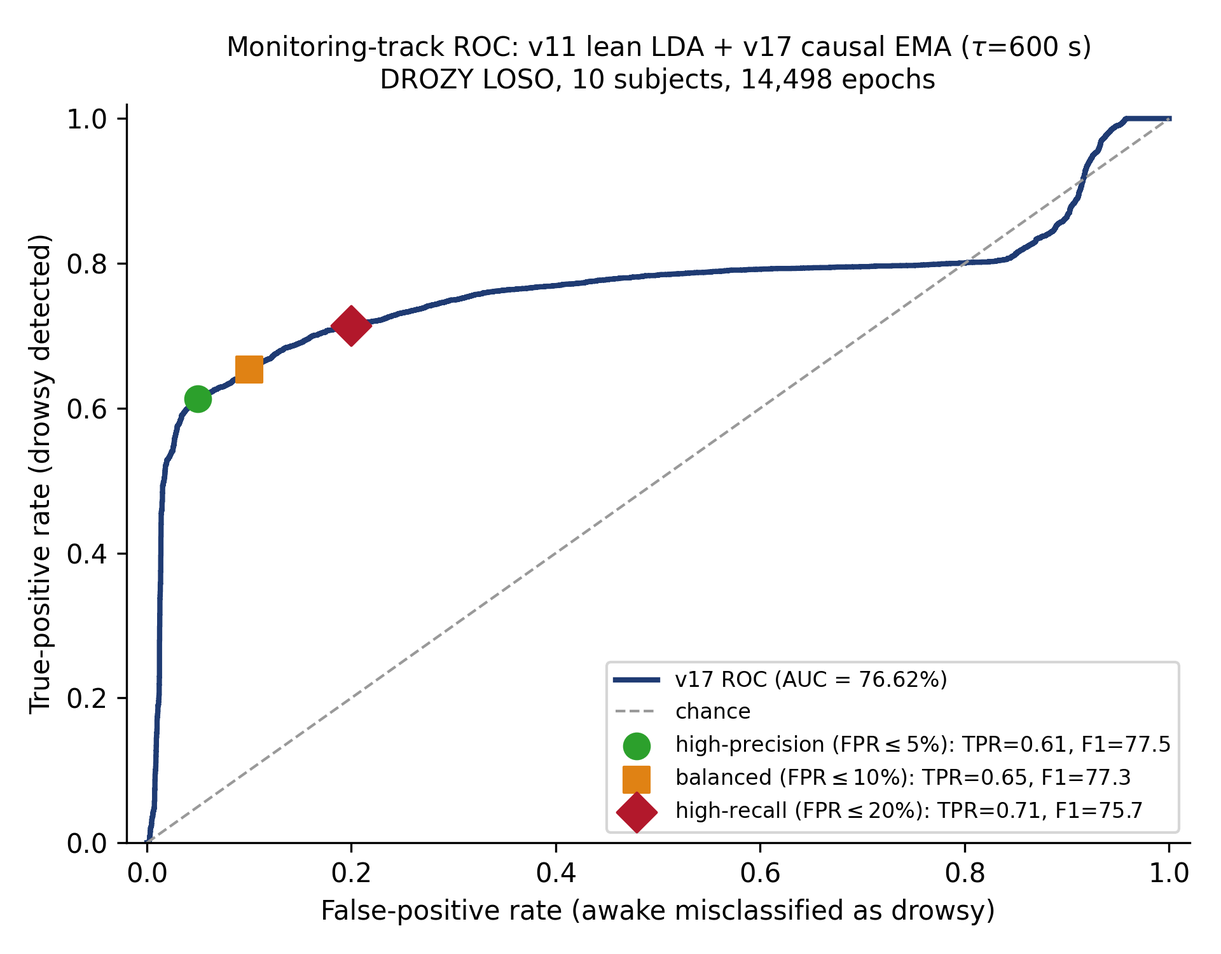
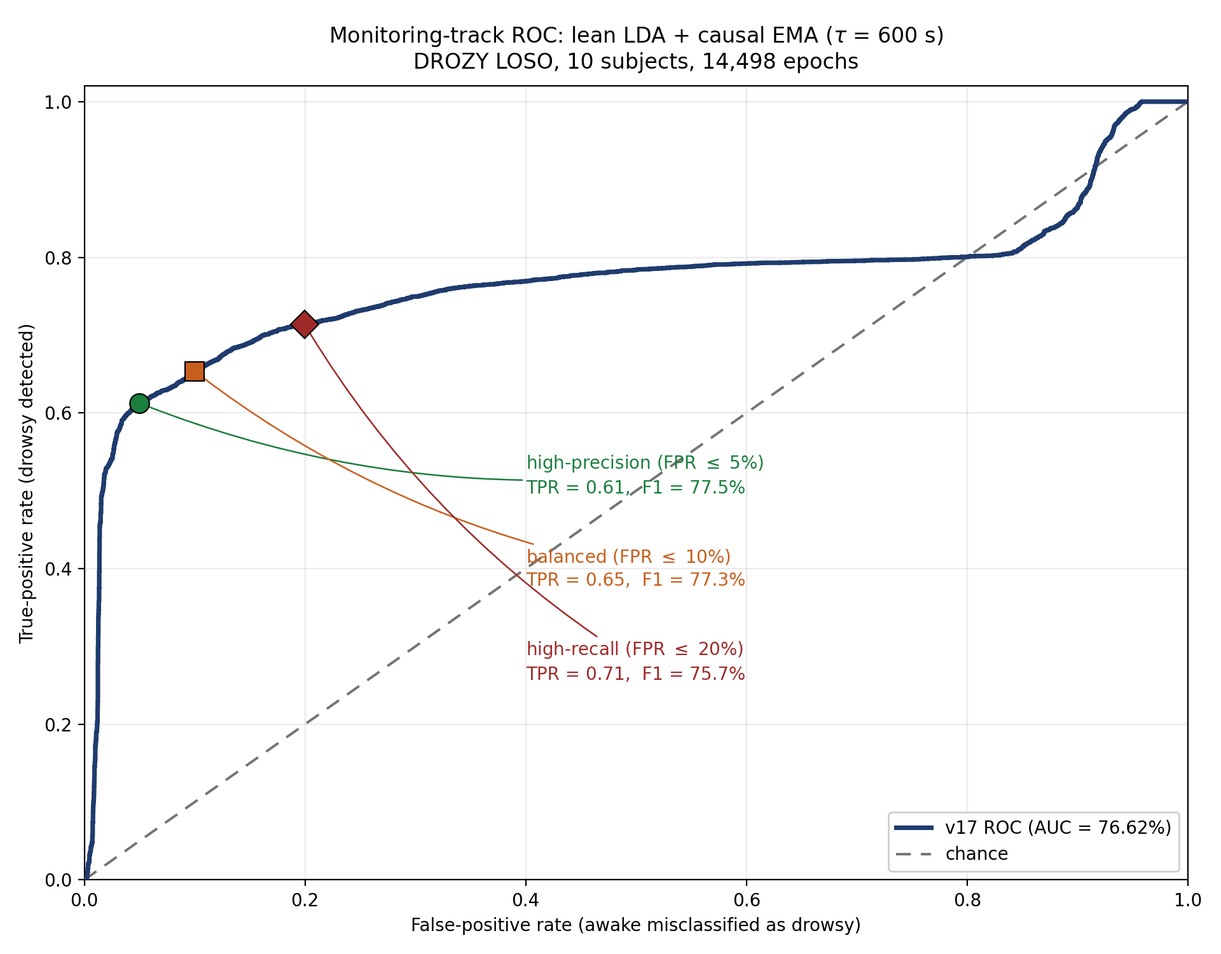
Chemori review: items 2, 6, 8, 9, 11, 14, 15
Revision markup infrastructure: \revmode switch (clean|review|track) with
\add{}, \del{}, \chg{} driving three builds from one source.

Item 2  — A. Chemori added as fourth author and corresponding author
          (LIRMM/CNRS, Senior Member IEEE). Removed A. R. Pal's
          \IEEEmembership{Member,~IEEE}: he is not an IEEE member, so the
          grade had been misstated in every draft since April. No grade is
          claimed for G. Murali Mohan either. Cascaded to cover_letter.md
          (header, corresponding author, signature), declarations.md (CRediT,
          funding), SUBMISSION_MANIFEST.md, submission/README.md. ORCID,
          CRediT and funding for Chemori left as explicit [TODO].
Item 6  — lead-in paragraph before the two tracks in Sec III.E.
Item 8  — Fig 2 legend moved out of the data: it sat at "center left" and was
          struck through by the 0.5 threshold line and the EMA curve. Now a
          two-column legend in reserved headroom (ylim -> 1.34).
Item 9  — Fig 3 title no longer clipped, tau rendered as a glyph, ROC line
          weight raised and chance diagonal differentiated, operating-point
          labels moved off the legend onto the curve with leader lines.
          Also fixes a repro desync: the shipped PNG was 1920x1500 with a
          corrected title while v17_roc.py still emitted 1100x1000 with the
          broken one, so reproduce.py silently undid the fix. Script and
          artifact now agree.
[…]

diff --git a/submission/main.tex b/submission/main.tex
@@ -41,9 +41,51 @@
 \usepackage{url}
 \usepackage{array}
 \usepackage{soul}                       % \hl{} for highlighting reviewer-revised text
+\usepackage[normalem]{ulem}             % \sout{} for struck-through deletions
 \usepackage[hidelinks]{hyperref}
 \usepackage{siunitx}
 \graphicspath{{figures/}}
+
+% =================================================================
+% Revision markup — A. Chemori review, received 2026-07-25.
+%
+%   clean  : submission copy   — final text only, deletions vanish
+%   review : Chemori's copy    — additions highlighted yellow
+%   track  : audit copy        — additions yellow, deletions red + struck
+%
+% Change ONE line below. Do not maintain separate copies of this file:
+% revision/build_variants.py generates the three Overleaf zips from it.
+% =================================================================
+\def\revmode{track}
+
+\definecolor{addyellow}{RGB}{255,245,150}
+\definecolor{delred}{RGB}{190,30,30}
+
+\makeatletter
+\def\@revclean{clean}
+\def\@revtrack{track}
+\ifx\revmode\@revclean
+  \newcommand{\add}[1]{#1}                                   % additions -> plain text
+  \newcommand{\del}[1]{}                                     % deletions -> removed entirely
+\else
+  \sethlcolor{addyellow}
+  \newcommand{\add}[1]{\hl{#1}}
+  \ifx\revmode\@revtrack
+    \newcommand{\del}[1]{{\color{delred}\sout{#1}}}
+  \else
+    \newcommand{\del}[1]{}                                   % review mode: additions only
+  \fi
+\fi
+\makeatother
+
+% Replaced text: \chg{old}{new}
+\newcommand{\chg}[2]{\del{#1}\add{#2}}
+
+% NOTE on usage: soul's \hl cannot re-typeset inline math or \cite, so inside
+% \add{} / \del{} / \chg{} any such content must be wrapped in \mbox{}:
+%     \add{the smoothed pipeline reaches \mbox{\(F_1 = 76.79\,\%\)}}
+%     \add{as reported previously~\mbox{\cite{balam2024review}}}
+% \hl also cannot span a paragraph break — mark each paragraph separately.
 
 \begin{document}
 
@@ -52,10 +94,14 @@
 \author{
     Muhammed Raslan Thalassery,
     Sulaiman Shiyas Ali,
-    Abhishek Rudra Pal,~\IEEEmembership{Member,~IEEE},
+    \chg{Abhishek Rudra Pal,~\IEEEmembership{Member,~IEEE},}{Abhishek Rudra Pal,}
+    \add{Ahmed Chemori,~\IEEEmembership{Senior Member,~IEEE},}
     and G.~Murali Mohan
 \thanks{M.~R.~Thalassery and S.~S.~Ali are with the School of Mechanical Engineering, Vellore Institute of Technology (VIT) Chennai, Vandalur--Kelambakkam Road, Chennai 600127, Tamil Nadu, India (e-mail: muhammedraslan.t2022@vitstudent.ac.in).}
-\thanks{A.~R.~Pal and G.~Murali Mohan are with the School of Mechanical Engineering, Vellore Institute of Technology (VIT) Chennai, Chennai 600127, Tamil Nadu, India (e-mail: abhishek.rudrapal@vit.ac.in; muralimohan.g@vit.ac.in). Corresponding author: A.~R.~Pal.}
+\thanks{\chg{A.~R.~Pal and G.~Murali Mohan are with the School of Mechanical Engineering, Vellore Institute of Technology (VIT) Chennai, Chennai 600127, Tamil Nadu, India (e-mail: abhishek.rudrapal@vit.ac.in; muralimohan.g@vit.ac.in). Corresponding author: A.~R.~Pal.}{A.~R.~Pal and G.~Murali Mohan are with the School of Mechanical Engineering, Vellore Institute of Technology (VIT) Chennai, Chennai 600127, Tamil Nadu, India (e-mail: abhishek.rudrapal@vit.ac.in; muralimohan.g@vit.ac.in).}}
+\thanks{\add{A.~Chemori is with LIRMM, Universit\'e de Montpellier, CNRS, UMR 5506, 161 rue Ada, 34095 Montpellier Cedex 5, France (e-mail: Ahmed.Chemori@lirmm.fr).}}
+\thanks{\add{Corresponding author: A.~Chemori.}}
+\thanks{\add{ORCID: M.~R.~Thalassery, [TODO]; S.~S.~Ali, [TODO]; A.~R.~Pal, [TODO]; A.~Chemori, [TODO]; G.~Murali Mohan, [TODO].}}
 \thanks{Manuscript received Month DD, 2026.}
 }
 
@@ -69,8 +115,42 @@ Driver drowsiness causes a substantial fraction of road fatalities worldwide, an
 \end{abstract}
 
 \begin{IEEEkeywords}
-Electroencephalography, drowsiness detection, driver monitoring, occipital EEG, advance prediction, subject-independent classification, IEEE Sensors.
+Electroencephalography, drowsiness detection, driver monitoring, occipital EEG, advance prediction, subject-independent classification, \chg{IEEE Sensors.}{vigilance, real-time systems.}
 \end{IEEEkeywords}
+
+% -----------------------------------------------------------------
+% Item 15 (A. Chemori): list of acronyms at the beginning of the paper.
+% The whole block is new; it is marked once at the heading rather than
+% per line, because soul's \hl is fragile inside \item[] labels.
+% -----------------------------------------------------------------
+\section*{\add{Nomenclature}}
+\begin{IEEEdescription}[\IEEEsetlabelwidth{PERCLOS}]
+\item[AUC]     Area under the receiver-operating-characteristic curve.
+\item[CNN]     Convolutional neural network.
+\item[DMS]     Driver-monitoring system.
+\item[DWT]     Discrete wavelet transform.
+\item[ECG]     Electrocardiography.
+\item[EEG]     Electroencephalography.
+\item[EMA]     Exponential moving average.
+\item[EOG]     Electro-oculography.
+\item[FIR]     Finite impulse response.
+\item[FOOOF]   ``Fitting oscillations and one-over-\emph{f}'' spectral parameterisation.
+\item[FPR]     False-positive rate.
+\item[HMM]     Hidden Markov model.
+\item[ImCoh]   Imaginary part of coherency.
+\item[IQR]     Interquartile range.
+\item[LDA]     Linear discriminant analysis.
+\item[LOSO]    Leave-one-subject-out cross-validation.
+\item[LSTM]    Long short-term memory network.
+\item[PAF]     Peak alpha frequency.
+\item[PERCLOS] Percentage of eyelid closure over the pupil over time.
+\item[PLV]     Phase-locking value.
+\item[PSD]     Power spectral density.
+\item[PVT]     Psychomotor vigilance task.
+\item[ROC]     Receiver operating characteristic.
+\item[TPR]     True-positive rate.
+\item[wPLI]    Weighted phase-lag index.
+\end{IEEEdescription}
 
 % =================================================================
 \section{Introduction}
@@ -130,18 +210,25 @@ The lean 10-feature set per epoch is:
 The classifier is shrinkage linear discriminant analysis (LDA)~\cite{ledoit2004shrinkage} with the \texttt{lsqr} solver and Ledoit--Wolf automatic shrinkage. Per-subject z-score standardisation is computed from each subject's session-1 (awake) epochs only --- equivalent to a 60-second pre-drive alert calibration --- and applied to both train and test epochs of the same subject without leaking class information.
 
 The temporal smoother converts per-epoch posteriors \(p_t\) into a smoothed estimate \(\tilde{p}_t\) by a strictly causal exponential moving average:
+% Item 14 (A. Chemori): the smoothing coefficient was previously \alpha, which
+% collided with the 8-13 Hz alpha band. Renamed to \lambda throughout. The
+% equation itself carries no \add/\del markup because soul's \hl cannot operate
+% inside math mode; the change is documented in the response letter and in the
+% highlighted sentence immediately below.
 \begin{equation}
-    \tilde{p}_t = \alpha \, p_t + (1-\alpha)\,\tilde{p}_{t-1}, \quad \alpha = 1 - e^{-\Delta t/\tau},
+    \tilde{p}_t = \lambda \, p_t + (1-\lambda)\,\tilde{p}_{t-1}, \quad \lambda = 1 - e^{-\Delta t/\tau},
     \label{eq:ema}
 \end{equation}
-with \(\Delta t = 10\)~s and \(\tau = 600\)~s. The recursion is initialised at \(\tilde{p}_0 = p_0\) and is reset only at subject boundaries (\emph{never} at session boundaries), to prevent any reset rule from leaking the binary DROZY label. We refer to this as the \emph{continuous} regime in Section~\ref{sec:smoother}.
+\add{Here \mbox{\(p_t \in [0,1]\)} is the classifier's posterior probability that epoch \mbox{\(t\)} is drowsy, \mbox{\(\tilde{p}_t\)} is its smoothed counterpart, \mbox{\(\lambda \in (0,1]\)} is the smoothing coefficient, \mbox{\(\Delta t\)} is the epoch duration, and \mbox{\(\tau\)} is the smoothing time constant. The coefficient is written \mbox{\(\lambda\)} rather than the conventional \mbox{\(\alpha\)} to avoid collision with the \mbox{\(\alpha\)} frequency band (8--13~Hz) used elsewhere in this paper.} In the configuration reported here \(\Delta t = 10\)~s and \(\tau = 600\)~s. The recursion is initialised at \(\tilde{p}_0 = p_0\) and is reset only at subject boundaries (\emph{never} at session boundaries), to prevent any reset rule from leaking the binary DROZY label. We refer to this as the \emph{continuous} regime in Section~\ref{sec:smoother}.
 
 \subsection{Evaluation Protocols}
+\add{The pipeline is assessed on two tasks that share a classifier but differ in their labels, time constants and success criteria. The \emph{monitoring} track asks how accurately the current vigilance state is recognised, is evaluated against binary session labels on DROZY, and is scored by weighted F1. The \emph{pro-active} track asks how far in advance a drowsiness episode is flagged, is evaluated against continuous PERCLOS annotations on SEED-VIG, and is scored by lead time under a controlled false-alert budget. The two protocols are defined in turn below, followed by the statistical procedures common to both.}
+
 \textbf{Monitoring track.} Strict leave-one-subject-out (LOSO) on DROZY (10 folds), with weighted F1 as the headline metric. Each fold trains on 9 subjects' 10-feature matrix and tests on the held-out subject; predictions are concatenated across folds. Cross-dataset transfer trains on full DROZY and tests on full SEED-VIG without any fine-tuning. Pooled LOSO concatenates DROZY and SEED-VIG and runs LOSO across the 31-subject union.
 
-\textbf{Pro-active track.} On each held-out SEED-VIG subject the per-epoch posterior is causal-EMA-smoothed (\(\tau = 30\)~s), and a per-driver alarm threshold is set as the 99\textsuperscript{th} percentile of that subject's smoothed posterior over the first 5 minutes of the session. The alarm fires on the first sustained crossing (10~s dwell). The behavioural reference onset is the first time the smoothed PERCLOS exceeds a chosen threshold for 60~s. Lead time is \emph{behavioural onset $-$ EEG onset} (positive = EEG fires first). Sessions where EEG fires but PERCLOS never crosses are reported as censored positive cases (\emph{eeg-only}); sessions where the reverse occurs are \emph{behav-only}.
+\textbf{Pro-active track.} On each held-out SEED-VIG subject the per-epoch posterior is causal-EMA-smoothed (\(\tau = 30\)~s), and a per-driver alarm threshold \add{\mbox{\(\eta\)}} is set as the 99\textsuperscript{th} percentile of that subject's smoothed posterior over the first 5 minutes of the session. The alarm fires on the first sustained crossing (10~s dwell). The behavioural reference onset is the first time the smoothed PERCLOS exceeds a chosen threshold for 60~s. Lead time is \emph{behavioural onset $-$ EEG onset} (positive = EEG fires first). Sessions where EEG fires but PERCLOS never crosses are reported as censored positive cases (\emph{eeg-only}); sessions where the reverse occurs are \emph{behav-only}.
 
-\textbf{Statistical tests.} Paired Wilcoxon signed-rank with one-sided alternative is used for between-pipeline comparisons at the subject level. Paired Cohen's \(d\) is reported as an effect-size descriptor.
+\textbf{Statistical tests.} Paired Wilcoxon signed-rank with one-sided alternative is used for between-pipeline comparisons at the subject level, \add{yielding the significance level \mbox{\(p\)} with \mbox{\(n = 10\)} paired subject-level observations on DROZY.} Paired Cohen's \(d\) is reported as an effect-size descriptor. \add{Two further statistics appear in the results: Cohen's \mbox{\(\kappa\)}, the chance-corrected agreement between predicted and true labels, and the Mann--Whitney \mbox{\(U\)} statistic used for the unpaired distributional contrasts of Section~\ref{sec:coh-stats}.}
 
 % =================================================================
 \section{Results}
@@ -369,7 +456,7 @@ Two engineering tracks that might reasonably be expected to improve the pipeline
 Table~\ref{tab:proactive} reports the FPR-budget Pareto front on SEED-VIG. The recommended deployment operating point is \emph{per-subject 99\textsuperscript{th} percentile of the first 5 min of smoothed \(p(\mathrm{drowsy})\), 10-s dwell, EMA \(\tau = 30\)~s}, which delivers \(\mathit{proactive\_rate} = 85.7\)~\% with median lead \(+31.67\) min against PERCLOS \(>0.70\). The epoch-level FPR (against PERCLOS \(<0.35\) epochs) is 27.6~\%; the per-session false-alert rate (sessions where EEG fires but PERCLOS never confirms) is 9.5~\% (2 of 21).
 
 \begin{table}[t]
-\caption{Pro-active operating envelope on SEED-VIG (21 subjects). Behavioural onset is PERCLOS \(>0.70\) sustained 60~s.}
+\caption{Pro-active operating envelope on SEED-VIG (21 subjects). Behavioural onset is PERCLOS \(>0.70\) sustained 60~s. \add{\(\eta\) denotes the alarm threshold applied to the smoothed posterior; it is written \(\eta\) rather than \(\theta\) to avoid collision with the \(\theta\) frequency band (4--8~Hz).}}
 \label{tab:proactive}
 \centering
 \small
@@ -378,8 +465,8 @@ Table~\ref{tab:proactive} reports the FPR-budget Pareto front on SEED-VIG. The r
 \toprule
 FPR budget & Threshold mode & Proactive rate & Median lead (min) & Sens@drowsy \\
 \midrule
-\(\leq 5\)~\%  & global \(\theta=0.50\)              & 33.3~\% & \(+0.00\)  & 0.30 \\
-\(\leq 10\)~\% & global \(\theta=0.40\)              & 47.6~\% & \(+0.83\)  & 0.38 \\
+\(\leq 5\)~\%  & global \(\eta=0.50\)                & 33.3~\% & \(+0.00\)  & 0.30 \\
+\(\leq 10\)~\% & global \(\eta=0.40\)                & 47.6~\% & \(+0.83\)  & 0.38 \\
 \(\leq 30\)~\% & per-subj 99\(\%\)pct of 5-min       & \(\mathbf{85.7}\)~\% & \(\mathbf{+31.67}\) & 0.69 \\
 \(\leq 50\)~\% & per-subj 99\(\%\)pct of 2-min       & 90.5~\% & \(+33.50\) & 0.79 \\
 \bottomrule
@@ -511,10 +598,10 @@ The authors thank the contributors of the DROZY~\cite{drozy2016} and SEED-VIG~\c
 All analysis scripts, pinned dependencies, and a single-entry reproducer (\texttt{reproduce.py}) are released at \url{https://github.com/MuhammedRaslan/Pro-Active-Driver-Monitoring-System-Using-EEG} under the commit tagged \texttt{paper-submission-v1}. Per-subject feature caches (DROZY: 14\,498 epochs \(\times\) 50 features; SEED-VIG: 9\,155 epochs) regenerate automatically from the raw EDF/MAT files via the reproducer. Wall-clock time is approximately 5 minutes on a laptop CPU excluding the EEGNet baseline (\(\sim\)28 minutes).
 
 \section*{Author Contributions}
-M.~R.~Thalassery designed the pipeline, implemented the experiments, conducted the ablations and statistical analyses, and drafted the manuscript. S.~S.~Ali contributed to the feature-extraction implementation and the live demonstrator. A.~R.~Pal supervised the project, provided guidance on signal-processing methodology, and reviewed and approved the final manuscript. G.~Murali Mohan provided project supervision and reviewed the final manuscript.
+M.~R.~Thalassery designed the pipeline, implemented the experiments, conducted the ablations and statistical analyses, and drafted the manuscript. S.~S.~Ali contributed to the feature-extraction implementation and the live demonstrator. A.~R.~Pal supervised the project, provided guidance on signal-processing methodology, and reviewed and approved the final manuscript. \add{A.~Chemori [TODO: CRediT contribution to be supplied by A.~Chemori].} G.~Murali Mohan provided project supervision and reviewed the final manuscript.
 
 \section*{Conflicts of Interest}
-The authors declare no conflicts of interest. No external funding was received for this work.
+The authors declare no conflicts of interest. \chg{No external funding was received for this work.}{[TODO: confirm with A.~Chemori whether CNRS/LIRMM requires a funding or institutional-support acknowledgement; the statement ``no external funding was received for this work'' was accurate while the work was VIT-internal.]}
 
 \bibliographystyle{IEEEtran}
 \bibliography{references}

diff --git a/v17_roc.py b/v17_roc.py
@@ -158,24 +158,54 @@ def main():
               f"TPR={m['tpr']:.3f}  FPR={m['fpr']:.3f}  kappa={m['kappa']:+.3f}")
 
     # Figure: ROC with the three chosen operating points highlighted.
-    fig, ax = plt.subplots(figsize=(5.5, 5.0))
-    ax.plot(fpr, tpr, "-", lw=2, color="#1f3b6e", label=f"v17 ROC (AUC = {auc:.2f}%)")
-    ax.plot([0, 1], [0, 1], "--", color="0.6", lw=1, label="chance")
+    #
+    # Item 9 (A. Chemori): "rework the curve line style of Fig. 3 for better
+    # visibility and avoid overlapping in the text." Three changes:
+    #   (a) the title previously overflowed the axes and was clipped mid-word
+    #       in the compiled PDF ("...causal EMA (tau=6C"). It is now shorter,
+    #       uses a real tau glyph, and is wrapped explicitly.
+    #   (b) the ROC and the chance diagonal were near-indistinguishable at
+    #       print size. The ROC is now heavier and the diagonal darker with a
+    #       distinct dash pattern.
+    #   (c) the operating points carried long labels inside the legend box.
+    #       They are now annotated directly on the curve, leaving a two-line
+    #       legend that cannot crowd the plotted data.
+    #
+    # NOTE: figsize/dpi below reproduce the 1920x1500 px figure shipped in
+    # submission/figures/. Do not change these without regenerating the PNG —
+    # a previous hand-edit of the image left this script emitting a different
+    # size and a broken title, so reproduce.py silently undid the fix.
+    fig, ax = plt.subplots(figsize=(9.6, 7.5))
+    ax.plot(fpr, tpr, "-", lw=2.6, color="#1f3b6e", zorder=3,
+            label=f"v17 ROC (AUC = {auc:.2f}%)")
+    ax.plot([0, 1], [0, 1], color="0.45", lw=1.4, linestyle=(0, (6, 4)),
+            zorder=2, label="chance")
+    # The three operating points cluster in the upper-left, so their labels are
+    # parked in the empty mid-right of the axes and joined by leader lines.
+    # Fixed data coordinates (not offsets) keep them from colliding with each
+    # other, which offset placement did not.
     labels = {
-        "high_precision_FPR5":  ("o", "#1a7f3d", "high-precision (FPR<=5%)"),
-        "balanced_FPR10":       ("s", "#c75f1e", "balanced (FPR<=10%)"),
-        "high_recall_FPR20":    ("D", "#a02a2a", "high-recall (FPR<=20%)"),
+        "high_precision_FPR5":  ("o", "#1a7f3d", "high-precision (FPR $\\leq$ 5%)",  (0.40, 0.52)),
+        "balanced_FPR10":       ("s", "#c75f1e", "balanced (FPR $\\leq$ 10%)",       (0.40, 0.40)),
+        "high_recall_FPR20":    ("D", "#a02a2a", "high-recall (FPR $\\leq$ 20%)",    (0.40, 0.28)),
     }
-    for name, (mk, col, lbl) in labels.items():
+    for name, (mk, col, lbl, xytext) in labels.items():
         m = ops[name]
-        ax.plot(m["fpr"], m["tpr"], mk, color=col, ms=9, mec="k", mew=0.6,
-                label=f"{lbl}: TPR={m['tpr']:.2f}, F1={m['f1_score']:.1f}")
+        ax.plot(m["fpr"], m["tpr"], mk, color=col, ms=11, mec="k", mew=0.8, zorder=4)
+        ax.annotate(f"{lbl}\nTPR = {m['tpr']:.2f},  F1 = {m['f1_score']:.1f}%",
+                    xy=(m["fpr"], m["tpr"]), xytext=xytext,
+                    textcoords="data", fontsize=10, color=col,
+                    ha="left", va="center", linespacing=1.4,
+                    arrowprops=dict(arrowstyle="-", color=col, lw=0.9,
+                                    shrinkA=0, shrinkB=6,
+                                    connectionstyle="arc3,rad=-0.12"))
     ax.set_xlabel("False-positive rate (awake misclassified as drowsy)")
     ax.set_ylabel("True-positive rate (drowsy detected)")
-    ax.set_title("Monitoring-track ROC — v11 lean LDA + v17 causal EMA (tau=600 s)\nDROZY LOSO, 10 subjects, 14498 epochs")
+    ax.set_title("Monitoring-track ROC: lean LDA + causal EMA ($\\tau$ = 600 s)\n"
+                 "DROZY LOSO, 10 subjects, 14,498 epochs", fontsize=12, pad=10)
     ax.set_xlim(0, 1); ax.set_ylim(0, 1.02)
     ax.grid(alpha=0.25)
-    ax.legend(loc="lower right", fontsize=8.5)
+    ax.legend(loc="lower right", fontsize=10, framealpha=0.95, edgecolor="0.8")
     fig.tight_layout()
     fig.savefig(FIG_PATH, dpi=200)
     plt.close(fig)

diff --git a/reviewer_revision_analysis.py b/reviewer_revision_analysis.py
@@ -257,16 +257,22 @@ rep = "05M"
 m = np.where(subj == rep)[0]
 t_min = np.arange(len(m)) * EPOCH_SEC / 60.0
 boundary = int(np.argmax(y[m] == 1))  # first drowsy epoch index
-fig, ax = plt.subplots(figsize=(7.2, 3.8))
+fig, ax = plt.subplots(figsize=(7.2, 4.2))
 ax.plot(t_min, p_raw[m], color="#bdbdbd", lw=0.8, label="raw posterior $p_t$")
 ax.plot(t_min, p_sm[m], color="#c1272d", lw=1.8, label=r"EMA-smoothed $\tilde p_t$ ($\tau=600$ s)")
-ax.axhline(0.5, color="black", ls=":", lw=0.8)
+ax.axhline(0.5, color="black", ls=":", lw=0.8, label="decision threshold (0.5)")
 ax.axvline(t_min[boundary], color="#1f78b4", ls="--", lw=1.0, label="awake$\\to$drowsy session boundary")
 ax.set_xlabel("Time within subject stream (min)")
 ax.set_ylabel("$p(\\mathrm{drowsy})$")
-ax.set_ylim(-0.02, 1.02)
-ax.set_title(f"Raw vs causal-EMA posterior (subject {rep})")
-ax.legend(loc="center left", fontsize=8, frameon=False)
+# Item 8 (A. Chemori): the legend previously sat at "center left", directly on
+# top of the traces — the 0.5 threshold line and the EMA curve struck through
+# the label text. Reserve a clear band above the data and lay the legend out
+# horizontally in that band so it cannot overlap any plotted element.
+ax.set_ylim(-0.02, 1.34)
+ax.legend(loc="upper left", ncol=2, fontsize=8, frameon=True,
+          framealpha=0.95, edgecolor="0.8", borderpad=0.5,
+          handlelength=1.8, columnspacing=1.4)
+ax.set_title(f"Raw vs causal-EMA posterior (subject {rep})", pad=8)
 ax.spines[["top", "right"]].set_visible(False)
 fig.tight_layout()
 f3path = os.path.join(FIGDIR, "fig14_ema_raw_vs_smoothed.png")

diff --git a/submission/cover_letter.md b/submission/cover_letter.md
@@ -1,9 +1,12 @@
 # Cover letter — IEEE Sensors Journal submission
 
 **Manuscript:** Pro-Active Driver Drowsiness Monitoring Using Two-Channel Occipital EEG
-**Authors:** Muhammed Raslan Thalassery, Sulaiman Shiyas Ali, Abhishek Rudra Pal, G. Murali Mohan
-**Affiliation:** School of Mechanical Engineering (SMEC), Vellore Institute of Technology (VIT) Chennai, Vandalur–Kelambakkam Road, Chennai 600127, Tamil Nadu, India
-**Corresponding author:** Dr. Abhishek Rudra Pal (abhishek.rudrapal@vit.ac.in)
+**Authors:** Muhammed Raslan Thalassery, Sulaiman Shiyas Ali, Abhishek Rudra Pal, Ahmed Chemori, G. Murali Mohan
+**Affiliations:**
+- School of Mechanical Engineering (SMEC), Vellore Institute of Technology (VIT) Chennai, Vandalur–Kelambakkam Road, Chennai 600127, Tamil Nadu, India
+- LIRMM, Université de Montpellier, CNRS, UMR 5506, 161 rue Ada, 34095 Montpellier Cedex 5, France
+
+**Corresponding author:** Dr. Ahmed Chemori (Ahmed.Chemori@lirmm.fr)
 **Date:** [TODO insert at submission]
 
 ---
@@ -22,7 +25,7 @@ We submit for your consideration the enclosed manuscript titled **"Pro-Active Dr
 
 - This manuscript has not been published or submitted elsewhere; an earlier version of this work appears solely as a university capstone thesis at VIT Chennai, which is not considered prior publication under IEEE policy.
 - All authors have approved the submission and agreed to the listed authorship order.
-- The authors declare no conflicts of interest. No external funding was received for this work.
+- The authors declare no conflicts of interest. [TODO: confirm the funding statement with Dr. Chemori — "no external funding was received for this work" was accurate while the work was VIT-internal, but a CNRS/LIRMM co-author may require an institutional or grant acknowledgement.]
 - All analysis scripts, pinned dependencies, and a single-entry reproducer are released at `https://github.com/MuhammedRaslan/Pro-Active-Driver-Monitoring-System-Using-EEG` (Zenodo DOI to be added after submission acceptance).
 - We have respected the data-use agreements for DROZY and SEED-VIG; no raw data is redistributed in the submission package.
 
@@ -30,14 +33,15 @@ We have suggested reviewers and excluded conflicts in the submission portal acco
 
 Sincerely,
 
-Dr. Abhishek Rudra Pal
-School of Mechanical Engineering
-Vellore Institute of Technology (VIT) Chennai
-Chennai 600127, Tamil Nadu, India
+Dr. Ahmed Chemori, Senior Member, IEEE
+CNRS Researcher HDR
+LIRMM, Université de Montpellier, CNRS, UMR 5506
+161 rue Ada, 34095 Montpellier Cedex 5, France
 ORCID: [TODO]
-Email: abhishek.rudrapal@vit.ac.in
+Email: Ahmed.Chemori@lirmm.fr
 
 On behalf of co-authors:
 Muhammed Raslan Thalassery (ORCID: [TODO])
 Sulaiman Shiyas Ali (ORCID: [TODO])
+Abhishek Rudra Pal (ORCID: [TODO])
 G. Murali Mohan (ORCID: [TODO])

diff --git a/submission/declarations.md b/submission/declarations.md
@@ -10,9 +10,11 @@ This file consolidates the four declaration paragraphs the portal will request. 
 
 **S. S. Ali (second author):** software (feature extraction, live demonstrator), validation, writing — review & editing.
 
-**A. R. Pal (corresponding author, third):** supervision, conceptualization (driver-monitoring framing), methodology guidance, writing — review & editing, project administration.
+**A. R. Pal (third author):** supervision, conceptualization (driver-monitoring framing), methodology guidance, writing — review & editing, project administration.
 
-**G. Murali Mohan (fourth author):** supervision.
+**A. Chemori (corresponding author, fourth):** [TODO — CRediT statement to be supplied by Dr. Chemori. Expected to include supervision, methodology guidance, and writing — review & editing, based on his pre-submission review of 2026-07-25; confirm with him before submission.]
+
+**G. Murali Mohan (fifth author):** supervision.
 
 All authors have read and approved the final manuscript and the listed authorship order.
 
@@ -26,7 +28,9 @@ The authors declare no conflicts of interest, financial or otherwise, related to
 
 ## 3. Funding
 
-This work received no external funding. The work was conducted as the corresponding-undergraduate-capstone project of the first and second authors at the School of Mechanical Engineering, Vellore Institute of Technology (VIT) Chennai, under the supervision of the third and fourth authors. No part of the manuscript preparation was supported by industry sponsorship.
+[TODO — confirm with Dr. Chemori before submission. The statement below was accurate while the work was entirely VIT-internal; a CNRS/LIRMM co-author may carry an obligation to acknowledge laboratory or grant support, which must be added here if so.]
+
+This work received no external funding. The work was conducted as the undergraduate capstone project of the first and second authors at the School of Mechanical Engineering, Vellore Institute of Technology (VIT) Chennai, under the supervision of the third, fourth and fifth authors. No part of the manuscript preparation was supported by industry sponsorship.
 
 ---
 

diff --git a/submission/README.md b/submission/README.md
@@ -1,8 +1,9 @@
 # Submission package — IEEE Sensors Journal
 
 **Manuscript:** Pro-Active Driver Drowsiness Monitoring Using Two-Channel Occipital EEG
-**Authors:** Muhammed Raslan Thalassery, Sulaiman Shiyas Ali, Abhishek Rudra Pal
-**Affiliation:** School of Mechanical Engineering (SMEC), VIT Chennai
+**Authors:** Muhammed Raslan Thalassery, Sulaiman Shiyas Ali, Abhishek Rudra Pal, Ahmed Chemori, G. Murali Mohan
+**Affiliations:** School of Mechanical Engineering (SMEC), VIT Chennai, India · LIRMM, Université de Montpellier, CNRS, UMR 5506, France
+**Corresponding author:** Dr. Ahmed Chemori (Ahmed.Chemori@lirmm.fr)
 **Target venue:** IEEE Sensors Journal
 **Status:** Draft v1 — internal review pending before portal upload
 
@@ -179,7 +180,7 @@ The current draft is at the upper edge of these targets to give room for cutting
 
 1. **Self-review.** Read the compiled PDF cold, twice, three days apart.
 2. **Co-author review.** S. S. Ali reads it as a critical reader; both students agree on every numerical claim.
-3. **Guide review.** Dr. Pal reads as the senior author; resolve any disagreements before submission.
+3. **Guide review.** Dr. Pal, Dr. Chemori and Dr. G. Murali Mohan read as the senior authors; resolve any disagreements before submission. Dr. Chemori is the corresponding author and signs the cover letter.
 4. **External reader (optional but recommended).** A friend in CS / ECE who has not seen the work — they catch unclear sentences your familiarity hides.
 5. **One sleep before submitting.** Do not click "submit" the same day you finalise. One overnight gap catches more typos than another full read-through.
 

diff --git a/submission/SUBMISSION_MANIFEST.md b/submission/SUBMISSION_MANIFEST.md
@@ -26,8 +26,11 @@ This is the single-page reference for the ScholarOne portal upload session. Prin
 
 ## Pre-submission action list (fill in before opening the portal)
 
-- [ ] Replace `[TODO]` placeholders in `main.tex` with four real ORCIDs.
-- [ ] Replace `[TODO]` in `cover_letter.md` with four real ORCIDs and the submission date.
+- [ ] Replace `[TODO]` placeholders in `main.tex` with **five** real ORCIDs.
+- [ ] Replace `[TODO]` in `cover_letter.md` with **five** real ORCIDs and the submission date.
+- [ ] Obtain A. Chemori's CRediT contribution statement (`main.tex` Author Contributions, `declarations.md` §1).
+- [ ] Confirm the funding statement with A. Chemori — CNRS/LIRMM may require an acknowledgement (`main.tex` Conflicts, `cover_letter.md`, `declarations.md` §3).
+- [ ] Corresponding author is now **A. Chemori** (Ahmed.Chemori@lirmm.fr) — the ScholarOne account and all editor correspondence should be his, not A. R. Pal's.
 - [ ] Make `https://github.com/MuhammedRaslan/Pro-Active-Driver-Monitoring-System-Using-EEG` public.
 - [ ] `git tag -a paper-submission-v1 -m "IEEE Sensors v1"; git push origin paper-submission-v1`.
 - [ ] Mint Zenodo DOI from the tag (zenodo.org → enable repo → create release).
